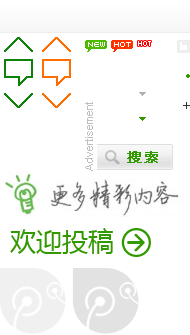
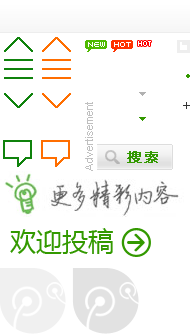
1

diff --git a/Interest/Novel/css/header.css b/Interest/Novel/css/header.css
@@ -48,7 +48,7 @@ div.footer{
 	line-height: 60px;
 	text-align: center;
 }
-.go{width:47px;height:106px;background-color:#DCFFF3;position:fixed;_position:absolute;_top:expression(eval(document.documentElement.scrollTop+document.documentElement.clientHeight-this.offsetHeight-(parseInt(this.currentStyle.marginTop,10)||200)-(parseInt(this.currentStyle.marginBottom,10)||0)));right:12px;bottom:25%;border-radius:5px;box-shadow:0 0 2px #6E6E6E}
+.go{width:47px;height:106px;background-color:rgba(0,0,0,0);position:fixed;_position:absolute;_top:expression(eval(document.documentElement.scrollTop+document.documentElement.clientHeight-this.offsetHeight-(parseInt(this.currentStyle.marginTop,10)||200)-(parseInt(this.currentStyle.marginBottom,10)||0)));right:12px;bottom:25%;border-radius:5px;box-shadow:0 0 2px #6E6E6E}
 .go a{background:url(../img/a.png) no-repeat;display:block;text-indent:999em;width:37px;margin:5px;border:0;overflow:hidden;float:left}
 .go .top{background-position:0 -33px;height:22px}
 .go .feedback{background-position:0 -54px;height:32px}
